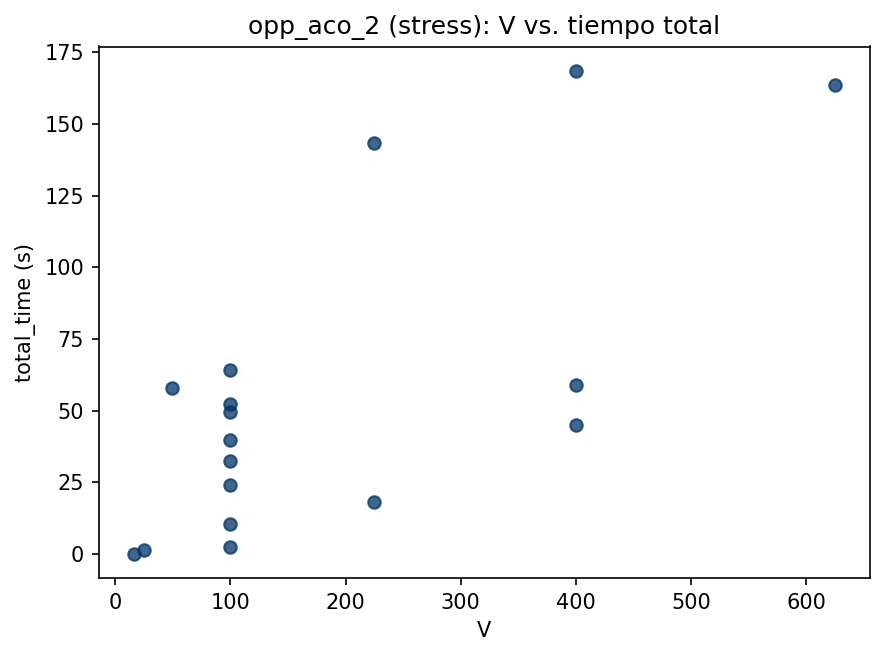
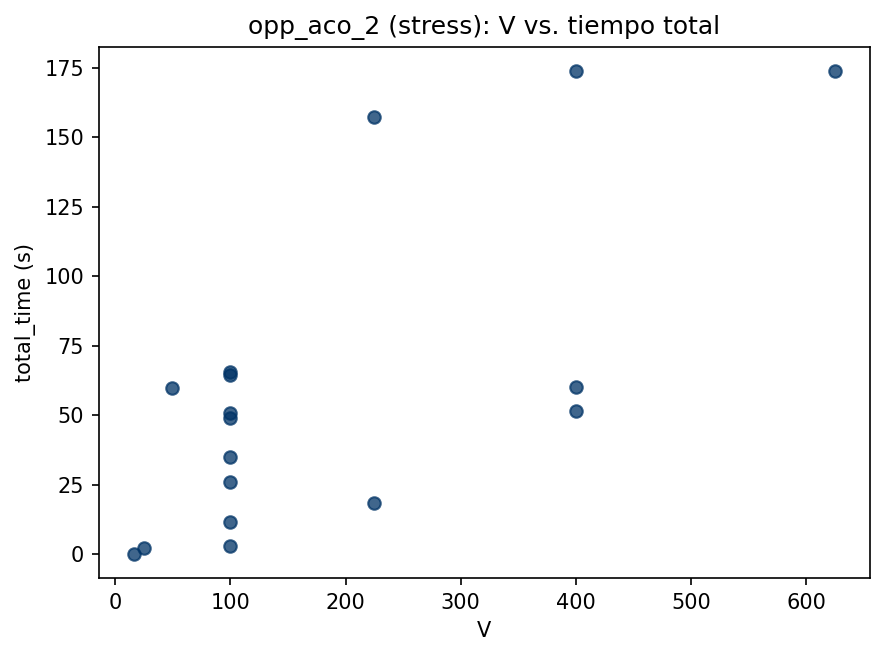
update and run analysis (optimality gap)

diff --git a/analysis/metrics.py b/analysis/metrics.py
@@ -261,7 +261,9 @@ def profiling_table(df: pd.DataFrame, exact_model: str = EXACT_MODEL) -> pd.Data
 SHAPE_COLUMNS = ["N", "V", "B", "P", "C_v"]
 
 
-def quality_gap_table(df: pd.DataFrame, exact_model: str = EXACT_MODEL) -> pd.DataFrame:
+def quality_gap_table(
+    df: pd.DataFrame, exact_model: str = EXACT_MODEL, heuristic_models=None,
+) -> pd.DataFrame:
     """
     Optimality gap of every heuristic model vs the exact model, computed only
     on instances (scenario, instance) where BOTH the exact model and the
@@ -269,6 +271,14 @@ def quality_gap_table(df: pd.DataFrame, exact_model: str = EXACT_MODEL) -> pd.Da
     (SHAPE_COLUMNS) -- same test method name is not sufficient, see above.
     Rows excluded for either reason are counted and reported, never dropped
     silently.
+
+    heuristic_models: optional iterable restricting which non-exact models are
+    compared (default: every model in df other than exact_model). Used e.g.
+    to compare opp_hc_4/opp_aco_4 against opp_v5 specifically -- they're the
+    only heuristics sharing opp_v5's extra features (picker speed, cold
+    chain), so comparing the rest (opp_hc_2/3, opp_aco_2/3) against opp_v5
+    would silently mix in instances that were never solved under the same
+    problem definition.
     """
     ok = _ok(df)
     shape_cols_present = [c for c in SHAPE_COLUMNS if c in ok.columns]
@@ -282,6 +292,8 @@ def quality_gap_table(df: pd.DataFrame, exact_model: str = EXACT_MODEL) -> pd.Da
                                    **{c: f"{c}_exact" for c in shape_cols_present}})
 
     heuristics = ok[ok["model"] != exact_model]
+    if heuristic_models is not None:
+        heuristics = heuristics[heuristics["model"].isin(heuristic_models)]
     heuristics = _dedupe_or_flag_collisions(
         heuristics, key_cols=["model", "scenario", "instance"],
         compare_cols=["obj_val"] + shape_cols_present, label="quality_gap_table:heuristics",

diff --git a/analysis/plots.py b/analysis/plots.py
@@ -70,7 +70,9 @@ def plot_profiling_stacked(profiling_df) -> "str | None":
     return _save(fig, "profiling_exact_model.png")
 
 
-def plot_quality_gap(quality_gap_df) -> "str | None":
+def plot_quality_gap(
+    quality_gap_df, exact_model: str = "opp_v4", file_name: str = "quality_gap.png",
+) -> "str | None":
     """
     Grouped bar: mean AND median optimality gap (%) per model (normal
     scenario only so far -- see metrics.quality_gap_table). Showing mean
@@ -78,9 +80,13 @@ def plot_quality_gap(quality_gap_df) -> "str | None":
     outlier instances while the median sits at 0% (more than half the
     matched instances hit the exact optimum). A mean-only chart would
     contradict the mean/median split already called out in the report text.
+
+    exact_model / file_name let this be reused for a different ground-truth
+    model (e.g. opp_v5 for the opp_hc_4/opp_aco_4 comparison) without
+    clobbering the opp_v4 chart.
     """
     if quality_gap_df.empty:
-        print("[plots] no quality-gap data yet (need matching opp_v4 + heuristic OK "
+        print(f"[plots] no quality-gap data yet (need matching {exact_model} + heuristic OK "
               "runs on the same instances), skipping chart.")
         return None
 
@@ -96,12 +102,12 @@ def plot_quality_gap(quality_gap_df) -> "str | None":
         [f"{m}\n({s})" for m, s in zip(quality_gap_df["model"], quality_gap_df["scenario"])],
         rotation=0,
     )
-    ax.set_ylabel("Gap vs. opp_v4 (%)")
-    ax.set_title("Gap de optimalidad vs. el modelo exacto (media vs. mediana)")
+    ax.set_ylabel(f"Gap vs. {exact_model} (%)")
+    ax.set_title(f"Gap de optimalidad vs. {exact_model} (media vs. mediana)")
     ax.axhline(0, color="black", linewidth=0.8)
     ax.legend()
     fig.tight_layout()
-    return _save(fig, "quality_gap.png")
+    return _save(fig, file_name)
 
 
 def plot_congestion_wait(congestion_df) -> "str | None":

diff --git a/analysis/run_analysis.py b/analysis/run_analysis.py
@@ -72,6 +72,13 @@ def main():
     convergence = convergence_table(df)
     profiling = profiling_table(df, exact_model=EXACT_MODEL)
     quality_gap = quality_gap_table(df, exact_model=EXACT_MODEL)
+    # opp_hc_4/opp_aco_4 vs. opp_v5: the only heuristics that share opp_v5's
+    # extra features (heterogeneous picker speed, cold-chain deadline), so
+    # they're the only fair comparison against it -- see
+    # metrics.quality_gap_table's heuristic_models docstring.
+    quality_gap_v5 = quality_gap_table(
+        df, exact_model="opp_v5", heuristic_models=["opp_hc_4", "opp_aco_4"],
+    )
     congestion = congestion_table(df)
     congestion_overhead = congestion_reduction_table(df)
     corr_global = correlation_table(df, level="global")
@@ -85,6 +92,9 @@ def main():
         charts.append(plot_mean_time_by_scenario(times, scenario))
     charts.append(plot_profiling_stacked(profiling))
     charts.append(plot_quality_gap(quality_gap))
+    charts.append(plot_quality_gap(
+        quality_gap_v5, exact_model="opp_v5", file_name="quality_gap_v5.png",
+    ))
     charts.append(plot_congestion_wait(congestion))
     # opp_v4 stress isn't included here: it only ever has 1 OK point (see
     # analysis/README.md), and plot_scatter_time_vs_param already skips
@@ -120,6 +130,9 @@ def main():
 
         f.write("\n## 4. Gap de optimalidad vs. opp_v4\n\n")
         f.write(_md_table(quality_gap))
+
+        f.write("\n## 4.1 Gap de optimalidad vs. opp_v5 (opp_hc_4 / opp_aco_4)\n\n")
+        f.write(_md_table(quality_gap_v5))
 
         f.write("\n## 5. Congestión (opp_hc_3 / opp_aco_3 vs. sus baselines v2)\n\n")
         f.write("### 5.1 Espera media por congestión\n\n")

diff --git a/analysis/output/report.md b/analysis/output/report.md
@@ -6,15 +6,15 @@
 | --- | --- | --- | --- | --- | --- | --- |
 | opp_aco_2 | normal | 48 | 48 | 0 | 0 | 100.0 |
 | opp_aco_2 | stress | 20 | 17 | 1 | 2 | 85.0 |
-| opp_aco_3 | normal | 12 | 12 | 0 | 0 | 100.0 |
+| opp_aco_3 | normal | 59 | 59 | 0 | 0 | 100.0 |
 | opp_aco_3 | stress | 20 | 17 | 1 | 2 | 85.0 |
-| opp_aco_4 | normal | 52 | 52 | 0 | 0 | 100.0 |
-| opp_aco_4 | stress | 22 | 14 | 1 | 7 | 63.6 |
+| opp_aco_4 | normal | 54 | 54 | 0 | 0 | 100.0 |
+| opp_aco_4 | stress | 22 | 19 | 1 | 2 | 86.4 |
 | opp_hc_2 | normal | 46 | 46 | 0 | 0 | 100.0 |
-| opp_hc_2 | stress | 43 | 32 | 11 | 0 | 74.4 |
-| opp_hc_3 | normal | 6 | 6 | 0 | 0 | 100.0 |
+| opp_hc_2 | stress | 27 | 18 | 9 | 0 | 66.7 |
+| opp_hc_3 | normal | 51 | 51 | 0 | 0 | 100.0 |
 | opp_hc_3 | stress | 20 | 17 | 3 | 0 | 85.0 |
-| opp_hc_4 | normal | 50 | 50 | 0 | 0 | 100.0 |
+| opp_hc_4 | normal | 51 | 51 | 0 | 0 | 100.0 |
 | opp_hc_4 | stress | 13 | 11 | 2 | 0 | 84.6 |
 | opp_v4 | normal | 46 | 45 | 1 | 0 | 97.8 |
 | opp_v4 | stress | 8 | 1 | 7 | 0 | 12.5 |
@@ -25,39 +25,82 @@
 
 | model | scenario | mean_time | std_time | max_time | n |
 | --- | --- | --- | --- | --- | --- |
-| opp_aco_2 | normal | 0.23610588908195493 | 0.327672399058028 | 1.4354429244995115 | 48 |
-| opp_aco_2 | stress | 54.83279884562773 | 53.908574179657755 | 168.5711851119995 | 17 |
-| opp_aco_3 | normal | 0.025555570920308385 | 0.04387347950663957 | 0.1223242282867431 | 12 |
-| opp_aco_3 | stress | 176.54810125687544 | 178.81893384318866 | 588.2318289279938 | 17 |
-| opp_aco_4 | normal | 0.2268606011684124 | 0.30490133187022567 | 1.3257269859313965 | 52 |
-| opp_aco_4 | stress | 179.25389174052648 | 374.2022925142759 | 1437.7297501564026 | 14 |
-| opp_hc_2 | normal | 0.008851419324460201 | 0.0043273053102638 | 0.0224010944366455 | 46 |
-| opp_hc_2 | stress | 2.9689269065856934 | 8.172350553423682 | 43.730140209198 | 32 |
-| opp_hc_3 | normal | 0.0038505395253499003 | 0.002514931435436244 | 0.0064420700073242 | 6 |
-| opp_hc_3 | stress | 0.563104419147267 | 0.4753807938995693 | 1.4223179817199707 | 17 |
-| opp_hc_4 | normal | 0.008774585723876906 | 0.003065250933611688 | 0.0188100337982177 | 50 |
-| opp_hc_4 | stress | 0.4299586686221036 | 0.461716348069904 | 1.34344220161438 | 11 |
-| opp_v4 | normal | 2.048522546556261 | 5.831397336622343 | 26.211292028427124 | 45 |
+| opp_aco_2 | normal | 0.18396599094072974 | 0.25233488683120814 | 1.1211960315704346 | 48 |
+| opp_aco_2 | stress | 58.91277899461634 | 56.85699358458275 | 173.91740012168884 | 17 |
+| opp_aco_3 | normal | 0.31300401687622065 | 0.5325745150178871 | 2.8098819255828857 | 59 |
+| opp_aco_3 | stress | 165.19943078826455 | 175.6710896237539 | 588.5939273834229 | 17 |
+| opp_aco_4 | normal | 0.2124941172423186 | 0.27627083509078293 | 1.1925182342529297 | 54 |
+| opp_aco_4 | stress | 60.363566875457764 | 64.0981211666289 | 195.39006304740903 | 19 |
+| opp_hc_2 | normal | 0.0080522609793621 | 0.002854513253927423 | 0.0171408653259277 | 46 |
+| opp_hc_2 | stress | 4.475473337703281 | 11.285555462972114 | 46.435662031173706 | 18 |
+| opp_hc_3 | normal | 0.008639742346370875 | 0.0037625092452699288 | 0.0201351642608642 | 51 |
+| opp_hc_3 | stress | 0.9233007992015165 | 0.9115397280264553 | 3.1994469165802 | 17 |
+| opp_hc_4 | normal | 0.010444061428892796 | 0.004429294748174813 | 0.0256180763244628 | 51 |
+| opp_hc_4 | stress | 0.438485557382757 | 0.5644101767700619 | 1.7878050804138184 | 11 |
+| opp_v4 | normal | 2.002520778444078 | 5.637359480157549 | 25.34288787841797 | 45 |
 | opp_v4 | stress | 0.1135659217834472 | nan | 0.1135659217834472 | 1 |
-| opp_v5 | normal | 0.15018961521295396 | 0.17979811670383003 | 1.217266082763672 | 52 |
+| opp_v5 | normal | 0.4888411026734572 | 1.6418191378580667 | 8.62041711807251 | 52 |
 
 ## 2.1 Memoria pico (RAM, MB, solo casos OK)
 
-_(sin datos)_
+| model | scenario | mean_rss_mb | std_rss_mb | max_rss_mb | n |
+| --- | --- | --- | --- | --- | --- |
+| opp_aco_2 | normal | 22.4951171875 | 0.5246297874062654 | 24.359375 | 48 |
+| opp_aco_2 | stress | 26.748161764705884 | 8.428222768570478 | 55.59375 | 17 |
+| opp_aco_3 | normal | 22.274099576271187 | 0.5197176433031622 | 23.28125 | 59 |
+| opp_aco_3 | stress | 29.337316176470587 | 12.65634410992153 | 70.6875 | 17 |
+| opp_aco_4 | normal | 22.780671296296298 | 0.5802204420541677 | 23.65625 | 54 |
+| opp_aco_4 | stress | 25.961348684210527 | 7.938855569022323 | 55.203125 | 19 |
+| opp_hc_2 | normal | 22.394701086956523 | 0.5528143232827556 | 24.09375 | 46 |
+| opp_hc_2 | stress | 46.96961805555556 | 40.61036906793127 | 165.875 | 18 |
+| opp_hc_3 | normal | 22.307291666666668 | 0.4563534414701687 | 23.390625 | 51 |
+| opp_hc_3 | stress | 31.43014705882353 | 21.57959164495379 | 93.875 | 17 |
+| opp_hc_4 | normal | 22.61917892156863 | 0.8232400782331437 | 24.546875 | 51 |
+| opp_hc_4 | stress | 27.789772727272727 | 16.388766523027495 | 75.96875 | 11 |
+| opp_v4 | normal | 57.17916666666667 | 19.992079286493517 | 120.34375 | 45 |
+| opp_v5 | normal | 52.83173076923077 | 6.507113094717316 | 79.59375 | 52 |
 
 ## 2.2 Nivel de servicio (% de órdenes sin tardanza, solo casos con dato)
 
-_(sin datos)_
+| model | scenario | mean_sla_pct | min_sla_pct | n |
+| --- | --- | --- | --- | --- |
+| opp_aco_2 | normal | 43.75 | 0.0 | 40 |
+| opp_aco_2 | stress | 0.0 | 0.0 | 16 |
+| opp_aco_3 | normal | 47.674418604651166 | 0.0 | 43 |
+| opp_aco_3 | stress | 0.0 | 0.0 | 16 |
+| opp_aco_4 | normal | 50.0 | 0.0 | 45 |
+| opp_aco_4 | stress | 0.0 | 0.0 | 18 |
+| opp_hc_2 | normal | 44.87179487179487 | 0.0 | 39 |
+| opp_hc_2 | stress | 0.0 | 0.0 | 16 |
+| opp_hc_3 | normal | 47.5609756097561 | 0.0 | 41 |
+| opp_hc_3 | stress | 0.0 | 0.0 | 16 |
+| opp_hc_4 | normal | 50.0 | 0.0 | 43 |
+| opp_hc_4 | stress | 0.0 | 0.0 | 9 |
+| opp_v4 | normal | 44.5945945945946 | 0.0 | 37 |
+| opp_v5 | normal | 46.42857142857143 | 0.0 | 42 |
 
 ## 2.3 Iteración de convergencia (solo Hill Climbing / ACO)
 
-_(sin datos)_
+| model | scenario | mean_iterations_run | mean_best_found_at_iteration | mean_convergence_pct | n |
+| --- | --- | --- | --- | --- | --- |
+| opp_aco_2 | normal | 60.0 | 2.0 | 3.3333333333333335 | 40 |
+| opp_aco_2 | stress | 60.0 | 37.1875 | 61.979166666666664 | 16 |
+| opp_aco_3 | normal | 57.76744186046512 | 2.9302325581395348 | 5.465116279069767 | 43 |
+| opp_aco_3 | stress | 60.0 | 30.25 | 50.416666666666664 | 16 |
+| opp_aco_4 | normal | 60.0 | 1.9555555555555555 | 3.2592592592592595 | 45 |
+| opp_aco_4 | stress | 60.0 | 35.72222222222222 | 59.53703703703704 | 18 |
+| opp_hc_2 | normal | 31.128205128205128 | 1.1282051282051282 | 3.170542283445509 | 39 |
+| opp_hc_2 | stress | 77.4375 | 49.125 | 39.66145522982999 | 16 |
+| opp_hc_3 | normal | 32.26829268292683 | 2.268292682926829 | 5.580514668385273 | 41 |
+| opp_hc_3 | stress | 89.625 | 59.625 | 44.69159414868709 | 16 |
+| opp_hc_4 | normal | 33.69767441860465 | 2.302325581395349 | 4.529028449975625 | 43 |
+| opp_hc_4 | stress | 65.66666666666667 | 35.666666666666664 | 27.380553895654415 | 9 |
 
 ## 3. Profiling del modelo exacto (opp_v4)
 
 | scenario | mean_total_time | mean_solver_time | n | solver_ratio_pct | overhead_ratio_pct |
 | --- | --- | --- | --- | --- | --- |
-| normal | 2.048522546556261 | 1.8545493019951715 | 45 | 90.5 | 9.5 |
+| normal | 2.002520778444078 | 1.797218492296007 | 45 | 89.7 | 10.3 |
 | stress | 0.1135659217834472 | 0.0 | 1 | 0.0 | 100.0 |
 
 ## 4. Gap de optimalidad vs. opp_v4
@@ -65,10 +108,19 @@ _(sin datos)_
 | model | scenario | mean_gap_pct | median_gap_pct | std_gap_pct | max_gap_pct | n_matched |
 | --- | --- | --- | --- | --- | --- | --- |
 | opp_aco_2 | normal | 71.22773178522324 | 0.0 | 199.87217644021445 | 472.0 | 9 |
+| opp_aco_3 | normal | 70.94082381347417 | 0.0 | 200.29580092085584 | 472.0 | 9 |
 | opp_aco_4 | normal | 71.22773178522324 | 0.0 | 199.87217644021445 | 472.0 | 9 |
-| opp_hc_2 | normal | 242.2202579436687 | 0.0 | 533.1439832436334 | 1180.0 | 9 |
-| opp_hc_4 | normal | 242.9510335623367 | 0.0 | 532.7824643414737 | 1180.0 | 9 |
-| opp_v5 | normal | -0.2555403797941615 | 0.0 | 1.4227886198343525 | 7.735572291461509e-11 | 31 |
+| opp_hc_2 | normal | 241.6721762296677 | 0.0 | 533.4208746881704 | 1180.0 | 9 |
+| opp_hc_3 | normal | 241.90973156926384 | 0.0 | 533.3002566895905 | 1180.0 | 9 |
+| opp_hc_4 | normal | 241.6721762296677 | 0.0 | 533.4208746881704 | 1180.0 | 9 |
+| opp_v5 | normal | -0.2555403797832111 | 0.0 | 1.4227886198363342 | 7.739048953165537e-11 | 31 |
+
+## 4.1 Gap de optimalidad vs. opp_v5 (opp_hc_4 / opp_aco_4)
+
+| model | scenario | mean_gap_pct | median_gap_pct | std_gap_pct | max_gap_pct | n_matched |
+| --- | --- | --- | --- | --- | --- | --- |
+| opp_aco_4 | normal | 71.22773178522328 | 0.0 | 199.87217644021445 | 472.0 | 9 |
+| opp_hc_4 | normal | 241.6721762296677 | 0.0 | 533.4208746881704 | 1180.0 | 9 |
 
 ## 5. Congestión (opp_hc_3 / opp_aco_3 vs. sus baselines v2)
 
@@ -78,14 +130,14 @@ _(sin datos)_
 | --- | --- | --- | --- | --- | --- | --- | --- | --- |
 | opp_aco_2 | normal | nan | nan | nan | nan | nan | 0 | False |
 | opp_aco_2 | stress | nan | nan | nan | nan | nan | 0 | False |
-| opp_aco_3 | normal | 0.75 | 1.5 | 3.0 | nan | nan | 4 | True |
-| opp_aco_3 | stress | 0.75 | 1.61245154965971 | 4.0 | nan | nan | 16 | True |
+| opp_aco_3 | normal | 0.11627906976744186 | 0.5437656325319977 | 3.0 | 0.046511627906976744 | 1.0 | 43 | True |
+| opp_aco_3 | stress | 0.625 | 1.408308678285174 | 4.0 | 0.3125 | 2.0 | 16 | True |
 | opp_aco_4 | normal | nan | nan | nan | nan | nan | 0 | False |
 | opp_aco_4 | stress | nan | nan | nan | nan | nan | 0 | False |
 | opp_hc_2 | normal | nan | nan | nan | nan | nan | 0 | False |
 | opp_hc_2 | stress | nan | nan | nan | nan | nan | 0 | False |
-| opp_hc_3 | normal | 1.0 | 1.7320508075688772 | 3.0 | nan | nan | 3 | True |
-| opp_hc_3 | stress | 1.125 | 2.4186773244895647 | 6.0 | nan | nan | 16 | True |
+| opp_hc_3 | normal | 0.17073170731707318 | 0.7714414762115869 | 4.0 | 0.07317073170731707 | 2.0 | 41 | True |
+| opp_hc_3 | stress | 1.125 | 2.4186773244895647 | 6.0 | 0.4375 | 3.0 | 16 | True |
 | opp_hc_4 | normal | nan | nan | nan | nan | nan | 0 | False |
 | opp_hc_4 | stress | nan | nan | nan | nan | nan | 0 | False |
 | opp_v4 | normal | nan | nan | nan | nan | nan | 0 | False |
@@ -96,10 +148,10 @@ _(sin datos)_
 
 | scenario | mean_time_overhead_pct | n_matched | aware_model | baseline_model |
 | --- | --- | --- | --- | --- |
-| normal | -15.574779336779315 | 1 | opp_hc_3 | opp_hc_2 |
-| stress | 18.54392133413714 | 16 | opp_hc_3 | opp_hc_2 |
-| normal | 99.5794968744288 | 1 | opp_aco_3 | opp_aco_2 |
-| stress | 230.9798807065909 | 17 | opp_aco_3 | opp_aco_2 |
+| normal | 13.043235462638608 | 46 | opp_hc_3 | opp_hc_2 |
+| stress | 60.6186724986318 | 7 | opp_hc_3 | opp_hc_2 |
+| normal | 93.35940683742062 | 48 | opp_aco_3 | opp_aco_2 |
+| stress | 165.43543227106733 | 17 | opp_aco_3 | opp_aco_2 |
 
 ## 6. Sensibilidad paramétrica (correlación de Pearson con total_time)
 
@@ -107,33 +159,33 @@ _(sin datos)_
 
 | model | N | V | B | C_v | W_full | W_ea_ta | n |
 | --- | --- | --- | --- | --- | --- | --- | --- |
-| opp_aco_2 | 0.5246 | 0.839 | 0.4658 | 0.5868 | 0.5263 | -0.3711 | 65 |
-| opp_aco_3 | 0.5975 | 0.3993 | 0.3763 | 0.5951 | 0.4058 | -0.187 | 21 |
-| opp_aco_4 | 0.8413 | 0.2771 | 0.5479 | 0.4085 | 0.3107 | -0.1858 | 66 |
-| opp_hc_2 | 0.6999 | 0.6658 | 0.3984 | 0.5963 | 0.2339 | -0.173 | 78 |
-| opp_hc_3 | 0.6944 | 0.1095 | 0.2999 | 0.8049 | 0.4237 | -0.2316 | 20 |
-| opp_hc_4 | 0.6969 | 0.3829 | 0.5534 | 0.6534 | 0.4474 | -0.2367 | 61 |
-| opp_v4 | 0.7511 | 0.4413 | 0.915 | -0.0171 | 0.4447 | -0.3873 | 23 |
-| opp_v5 | 0.8233 | 0.4794 | 0.8895 | -0.005 | 0.4797 | -0.4194 | 22 |
+| opp_aco_2 | 0.5265 | 0.8371 | 0.4687 | 0.5859 | 0.532 | -0.3729 | 65 |
+| opp_aco_3 | 0.6693 | 0.5885 | 0.5343 | 0.7242 | 0.5087 | -0.3299 | 68 |
+| opp_aco_4 | 0.545 | 0.8118 | 0.4925 | 0.6115 | 0.5151 | -0.3046 | 73 |
+| opp_hc_2 | 0.7207 | 0.7324 | 0.4129 | 0.7272 | 0.2655 | -0.1838 | 64 |
+| opp_hc_3 | 0.7814 | 0.3697 | 0.5092 | 0.8295 | 0.5229 | -0.3441 | 65 |
+| opp_hc_4 | 0.7642 | 0.3039 | 0.4803 | 0.866 | 0.4203 | -0.2235 | 62 |
+| opp_v4 | 0.751 | 0.4403 | 0.9151 | -0.018 | 0.4441 | -0.3868 | 23 |
+| opp_v5 | 0.843 | 0.4822 | 0.92 | -0.0164 | 0.4855 | -0.4162 | 21 |
 
 ### 6.2 Nivel escenario
 
 | model | scenario | N | V | B | C_v | W_full | W_ea_ta | n |
 | --- | --- | --- | --- | --- | --- | --- | --- | --- |
-| opp_aco_2 | normal | 0.4544 | 0.4759 | 0.5016 | 0.0808 | -0.015 | -0.496 | 48 |
-| opp_aco_2 | stress | 0.2127 | 0.71 | 0.0505 | 0.1925 | nan | nan | 17 |
-| opp_aco_3 | normal | 0.2256 | 0.2256 | 0.9256 | -0.6652 | nan | 0.6652 | 4 |
-| opp_aco_3 | stress | 0.5281 | 0.2718 | 0.2383 | 0.4882 | nan | nan | 17 |
-| opp_aco_4 | normal | 0.5568 | 0.1893 | 0.1981 | -0.0673 | 0.011 | -0.1337 | 52 |
-| opp_aco_4 | stress | 0.8371 | 0.0125 | 0.429 | 0.2047 | nan | nan | 14 |
-| opp_hc_2 | normal | 0.5745 | 0.3289 | 0.2616 | 0.0451 | -0.077 | -0.4117 | 46 |
-| opp_hc_2 | stress | 0.6704 | 0.6339 | 0.3092 | 0.5854 | 0.0609 | -0.0609 | 32 |
-| opp_hc_3 | normal | 0.9629 | 0.9629 | nan | 0.9629 | nan | -0.9629 | 3 |
-| opp_hc_3 | stress | 0.6492 | -0.0672 | 0.1571 | 0.7561 | nan | nan | 17 |
-| opp_hc_4 | normal | 0.5246 | 0.2569 | 0.158 | 0.0433 | -0.0593 | -0.2547 | 50 |
-| opp_hc_4 | stress | 0.5938 | -0.0131 | 0.2965 | 0.6237 | 0.0364 | -0.0364 | 11 |
-| opp_v4 | normal | 0.843 | 0.485 | 0.918 | -0.0078 | 0.4891 | -0.4207 | 22 |
-| opp_v5 | normal | 0.8233 | 0.4794 | 0.8895 | -0.005 | 0.4797 | -0.4194 | 22 |
+| opp_aco_2 | normal | 0.5165 | 0.1495 | 0.1768 | -0.0908 | -0.0507 | -0.2146 | 48 |
+| opp_aco_2 | stress | 0.2105 | 0.7043 | 0.0487 | 0.1807 | nan | nan | 17 |
+| opp_aco_3 | normal | 0.4198 | 0.1298 | 0.1245 | -0.0603 | 0.0488 | -0.1307 | 51 |
+| opp_aco_3 | stress | 0.4655 | 0.2752 | 0.2009 | 0.5211 | nan | nan | 17 |
+| opp_aco_4 | normal | 0.5649 | 0.2026 | 0.2164 | -0.0617 | -0.0219 | -0.1258 | 54 |
+| opp_aco_4 | stress | 0.2874 | 0.6746 | 0.151 | 0.3164 | nan | nan | 19 |
+| opp_hc_2 | normal | 0.5326 | 0.2851 | 0.1348 | 0.2305 | 0.0702 | -0.4831 | 46 |
+| opp_hc_2 | stress | 0.6809 | 0.6948 | 0.3013 | 0.7059 | 0.0922 | -0.0922 | 18 |
+| opp_hc_3 | normal | 0.6224 | 0.2918 | 0.2688 | -0.0146 | -0.1051 | -0.3398 | 48 |
+| opp_hc_3 | stress | 0.6452 | -0.1381 | 0.137 | 0.7302 | nan | nan | 17 |
+| opp_hc_4 | normal | 0.5886 | 0.2916 | 0.2454 | 0.0743 | 0.0999 | -0.4174 | 51 |
+| opp_hc_4 | stress | 0.6909 | -0.071 | 0.2228 | 0.9589 | 0.115 | -0.115 | 11 |
+| opp_v4 | normal | 0.843 | 0.484 | 0.9181 | -0.0088 | 0.4885 | -0.4204 | 22 |
+| opp_v5 | normal | 0.843 | 0.4822 | 0.92 | -0.0164 | 0.4855 | -0.4162 | 21 |
 
 ## 7. Estabilidad frente a la semilla (30 corridas por instancia, solo heurísticos)
 
@@ -164,6 +216,7 @@ _(sin datos)_
 - `mean_time_stress.png`
 - `profiling_exact_model.png`
 - `quality_gap.png`
+- `quality_gap_v5.png`
 - `congestion_wait.png`
 - `scatter_opp_hc_2_stress_N.png`
 - `scatter_opp_aco_2_stress_V.png`
